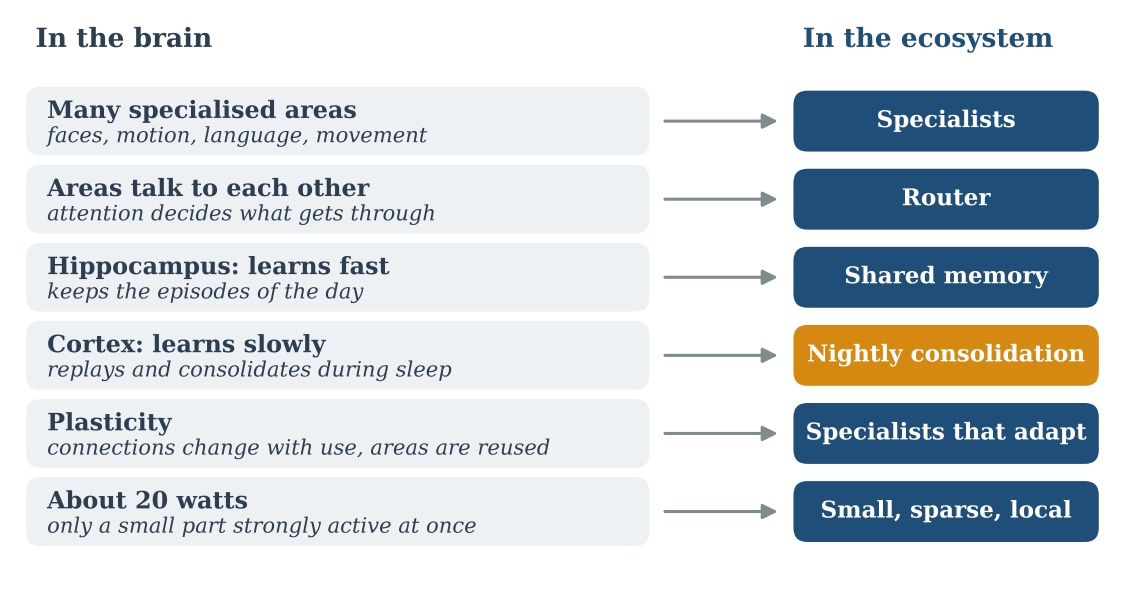
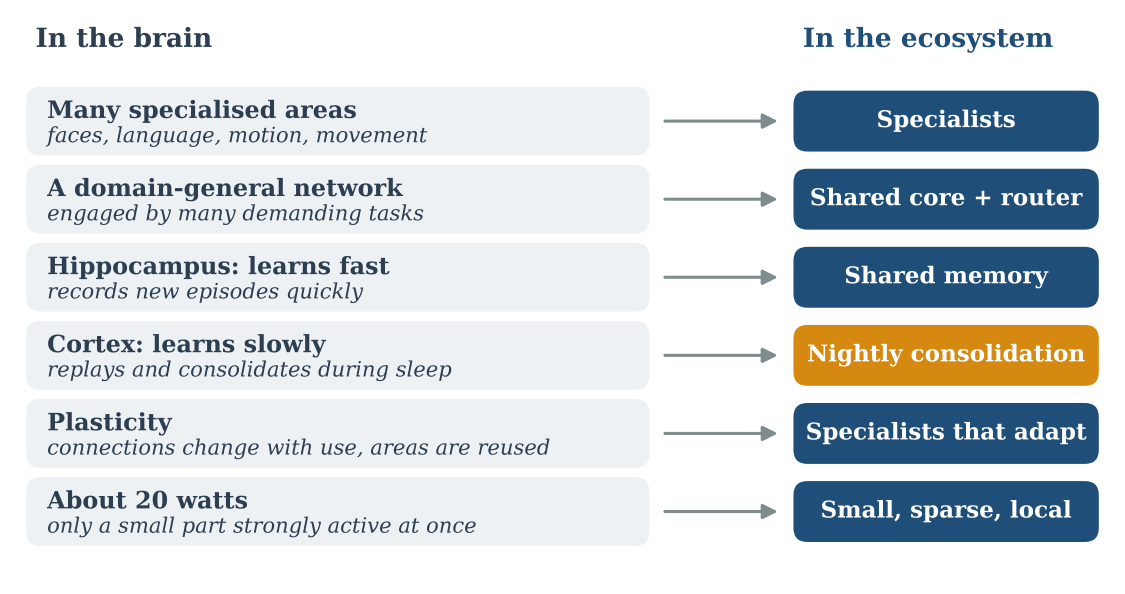
Draft essay: evaluation fixes, recent references (brain section in particular), updated brain and router figures
Claude-Session: https://claude.ai/code/session_01CijdFf1pg8nzV1MGbqCTm2

diff --git a/posts/2026-10-17-an-ecosystem-not-an-oracle/figs.py b/posts/2026-10-17-an-ecosystem-not-an-oracle/figs.py
@@ -221,9 +221,9 @@ def fig_bandwidth():
 
 def fig_brain():
     """How the brain seems to be organised, and the part of the ecosystem each idea maps to."""
-    rows = [("Many specialised areas", "faces, motion, language, movement", "Specialists"),
-            ("Areas talk to each other", "attention decides what gets through", "Router"),
-            ("Hippocampus: learns fast", "keeps the episodes of the day", "Shared memory"),
+    rows = [("Many specialised areas", "faces, language, motion, movement", "Specialists"),
+            ("A domain-general network", "engaged by many demanding tasks", "Shared core + router"),
+            ("Hippocampus: learns fast", "records new episodes quickly", "Shared memory"),
             ("Cortex: learns slowly", "replays and consolidates during sleep", "Nightly consolidation"),
             ("Plasticity", "connections change with use, areas are reused", "Specialists that adapt"),
             ("About 20 watts", "only a small part strongly active at once", "Small, sparse, local")]
@@ -310,7 +310,7 @@ def fig_router():
     fig, ax = plt.subplots(figsize=(5.6, 3.0))
     ax.plot(a * 100, plain, color=GREY, lw=2.0, ls="--", label="router alone")
     ax.plot(a * 100, esc, color=NAVY, lw=2.4, label="router that escalates half its mistakes")
-    ax.axhline(qg, color=AMBER, lw=1.8, label="one general model, same memory")
+    ax.axhline(qg, color=AMBER, lw=1.8, label="one general model, similar speed")
     for q, c in [(plain, GREY), (esc, NAVY)]:
         i = np.argmin(abs(q - qg))
         ax.plot([a[i] * 100], [qg], "o", color=c, ms=6, zorder=5)
